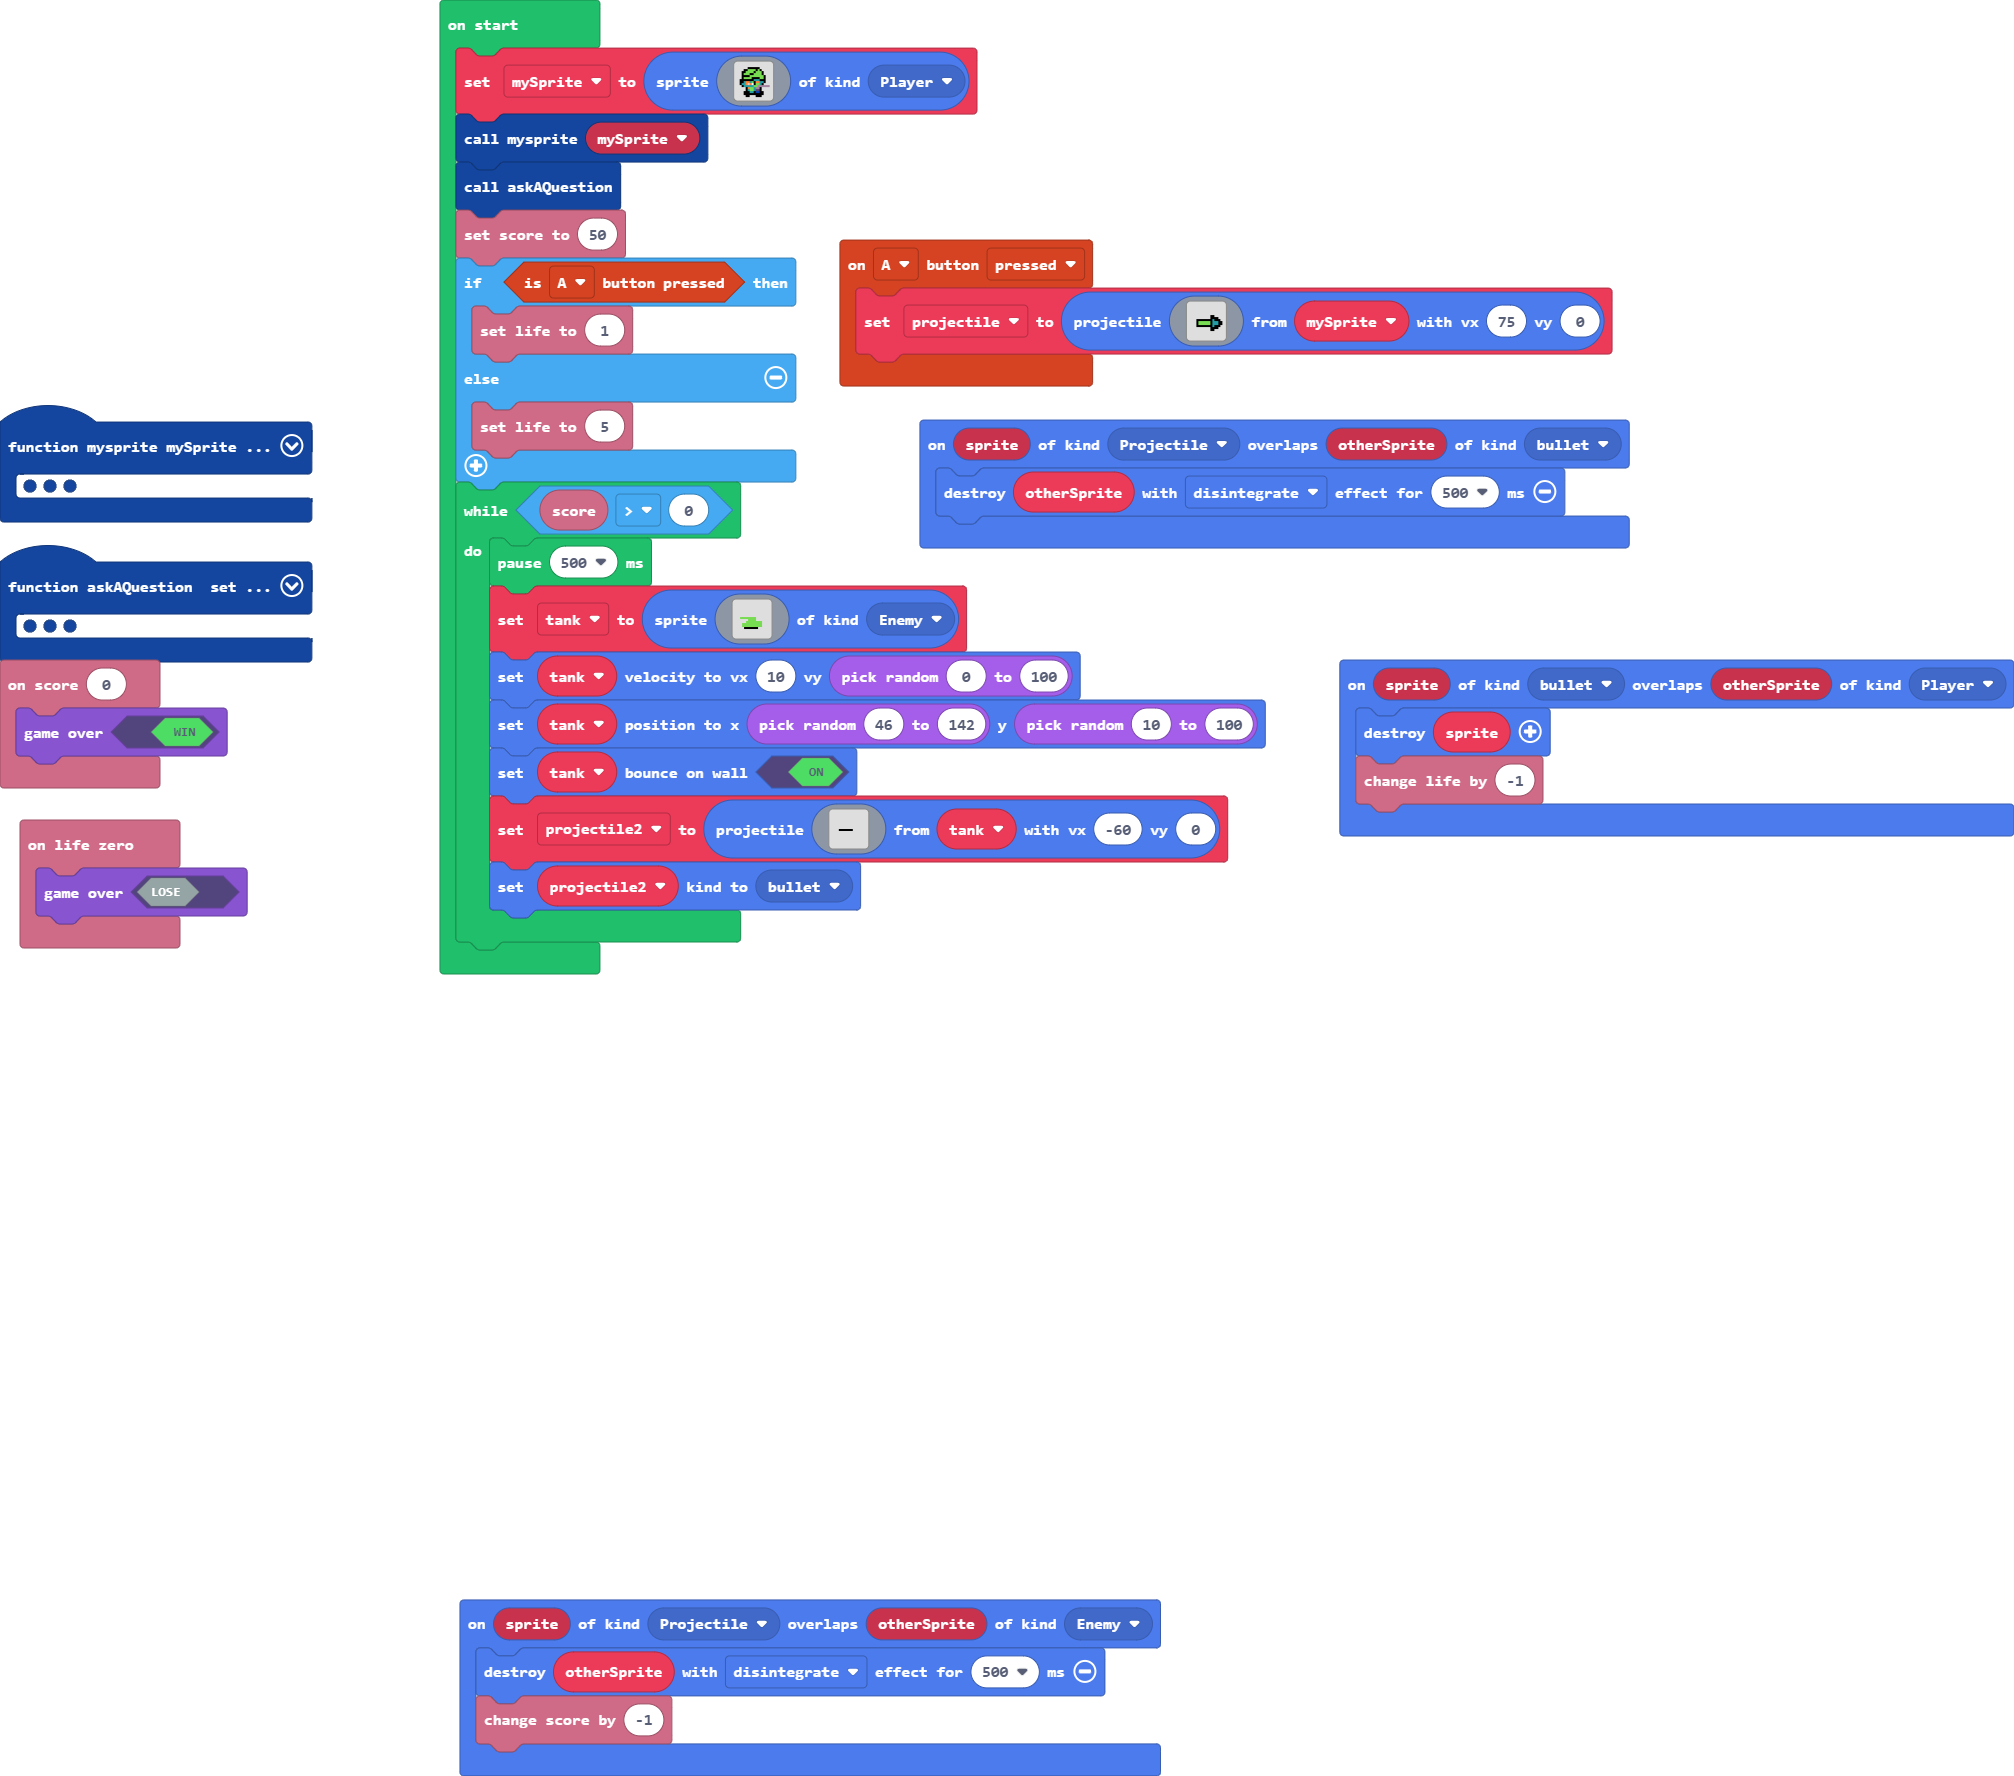
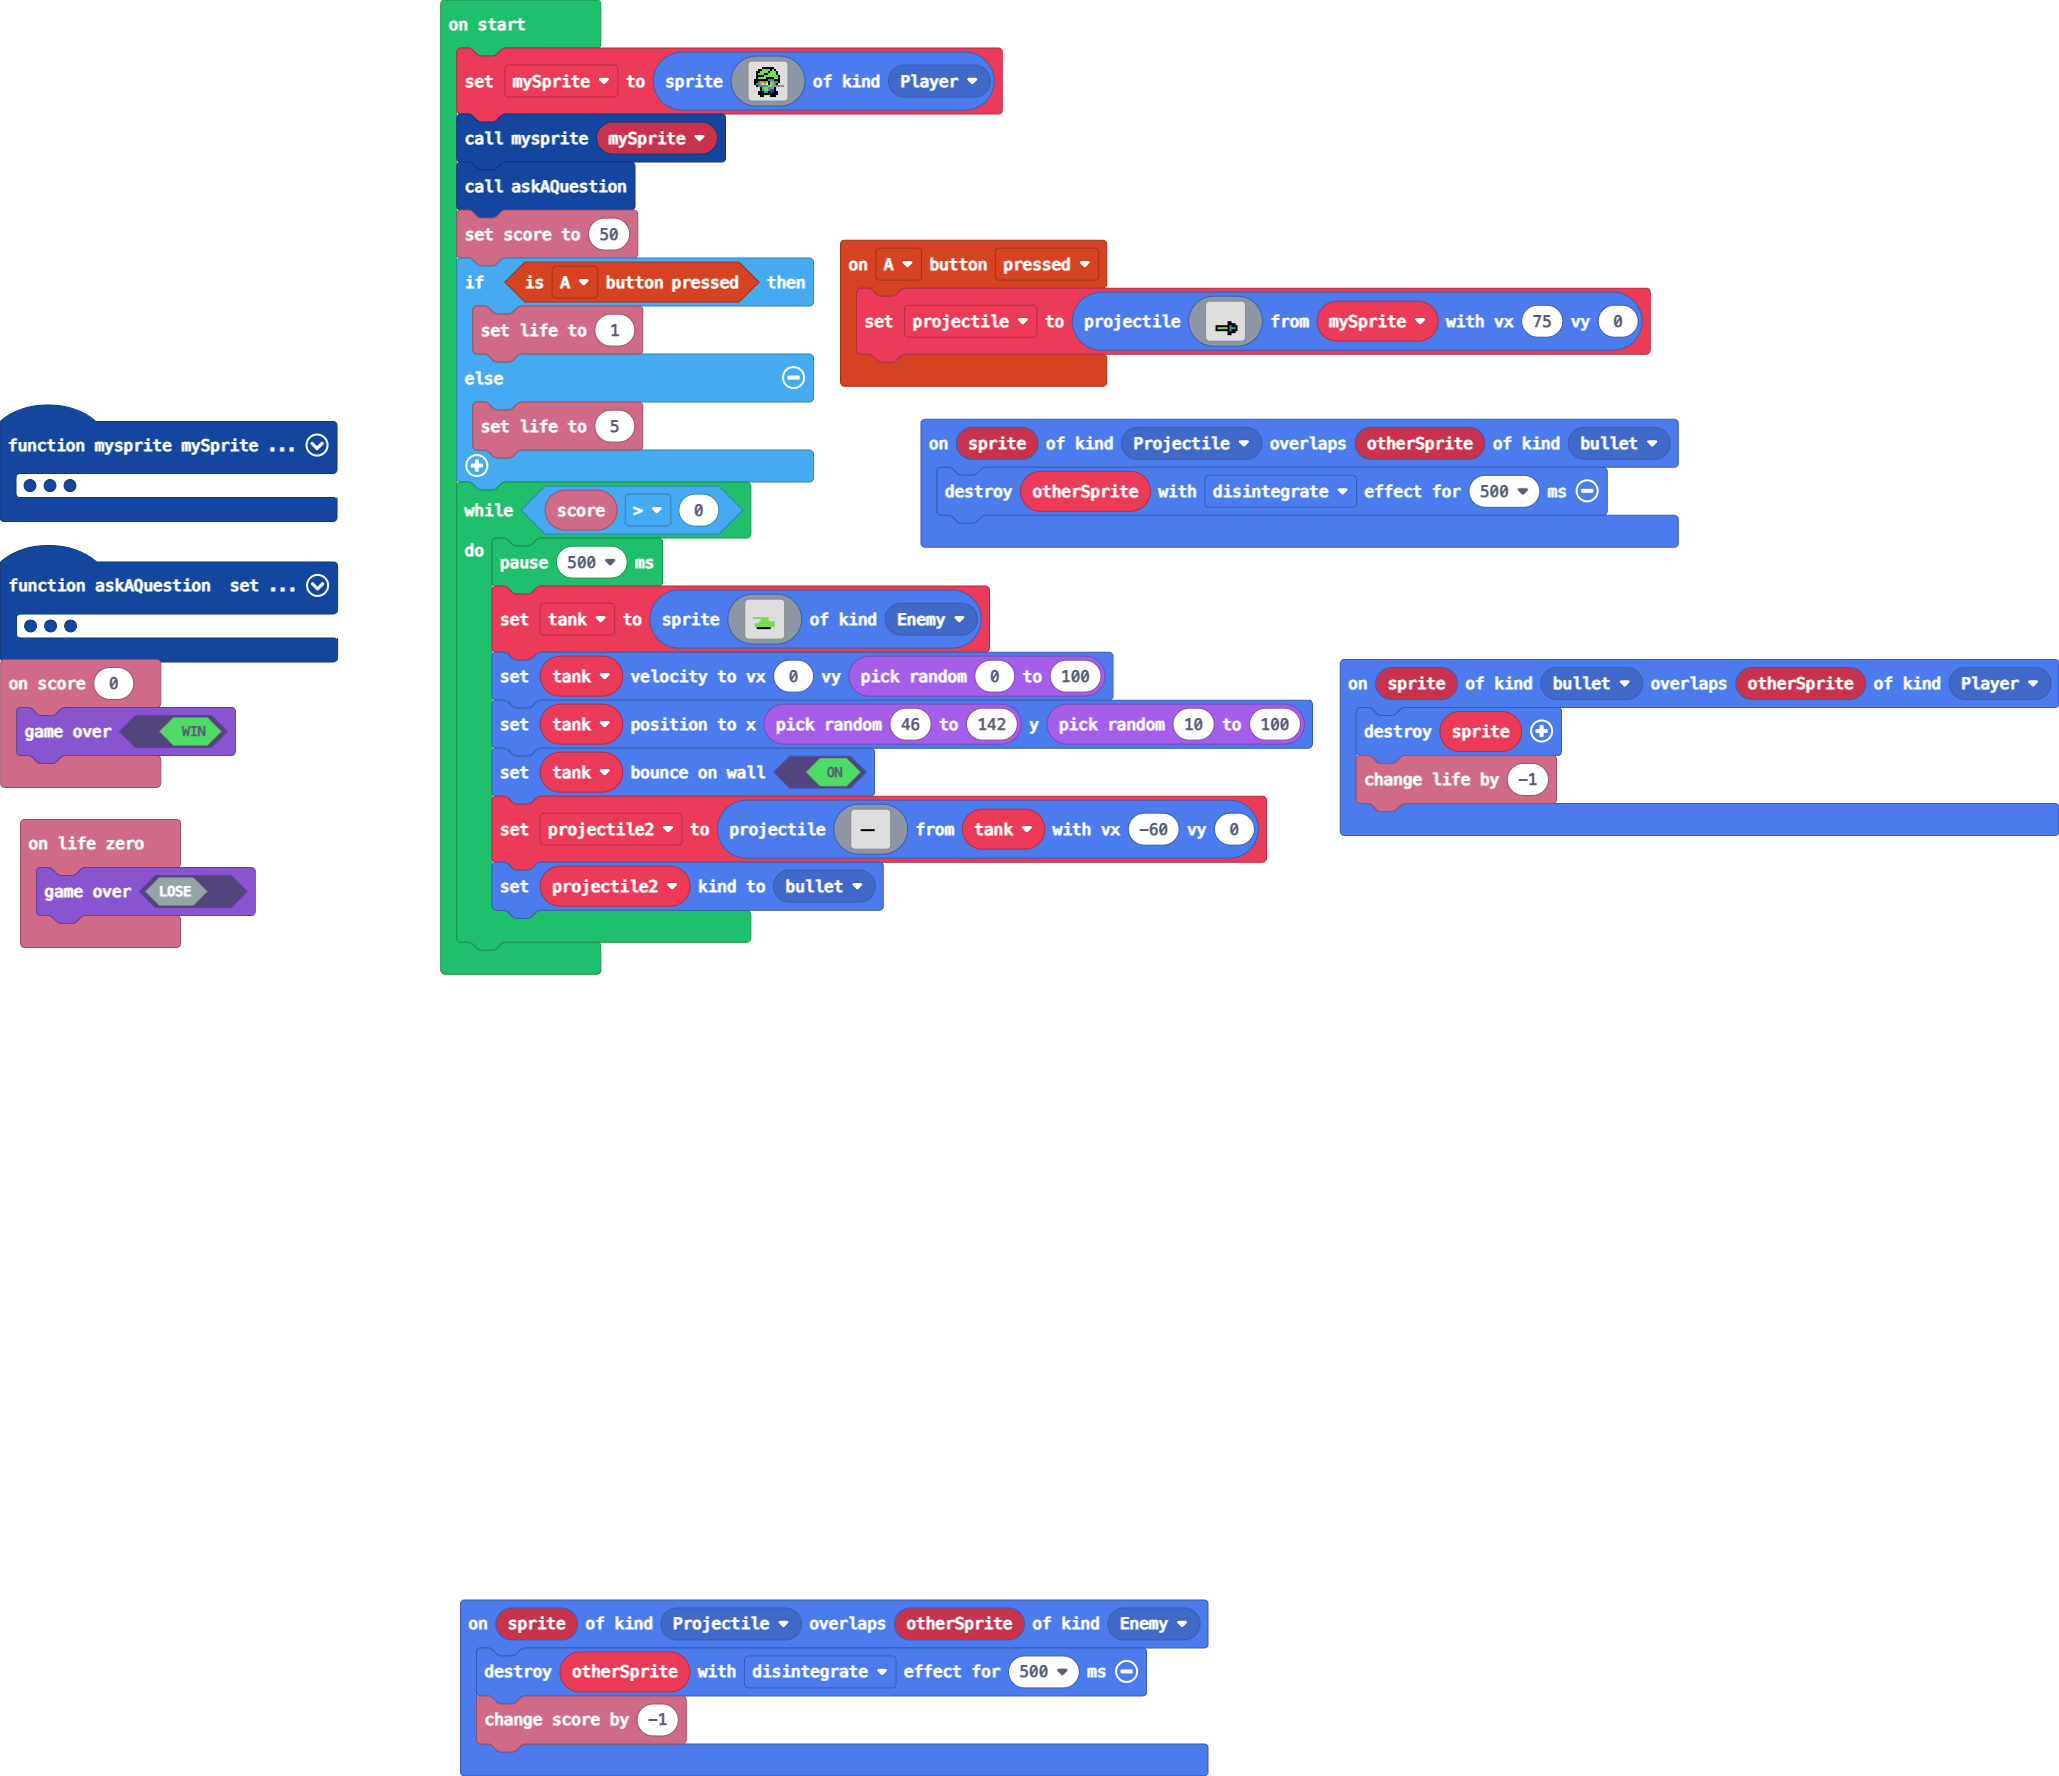
Restore '11/18/2024, 1:23:05 PM Update main.blocks, main.ts'

diff --git a/main.ts b/main.ts
@@ -98,7 +98,7 @@ while (info.score() > 0) {
         . . . . . . . . . . . . . . . . 
         . . . . . . . . . . . . . . . . 
         `, SpriteKind.Enemy)
-    tank.setVelocity(10, randint(0, 100))
+    tank.setVelocity(0, randint(0, 100))
     tank.setPosition(randint(46, 142), randint(10, 100))
     tank.setBounceOnWall(true)
     projectile2 = sprites.createProjectileFromSprite(img`
